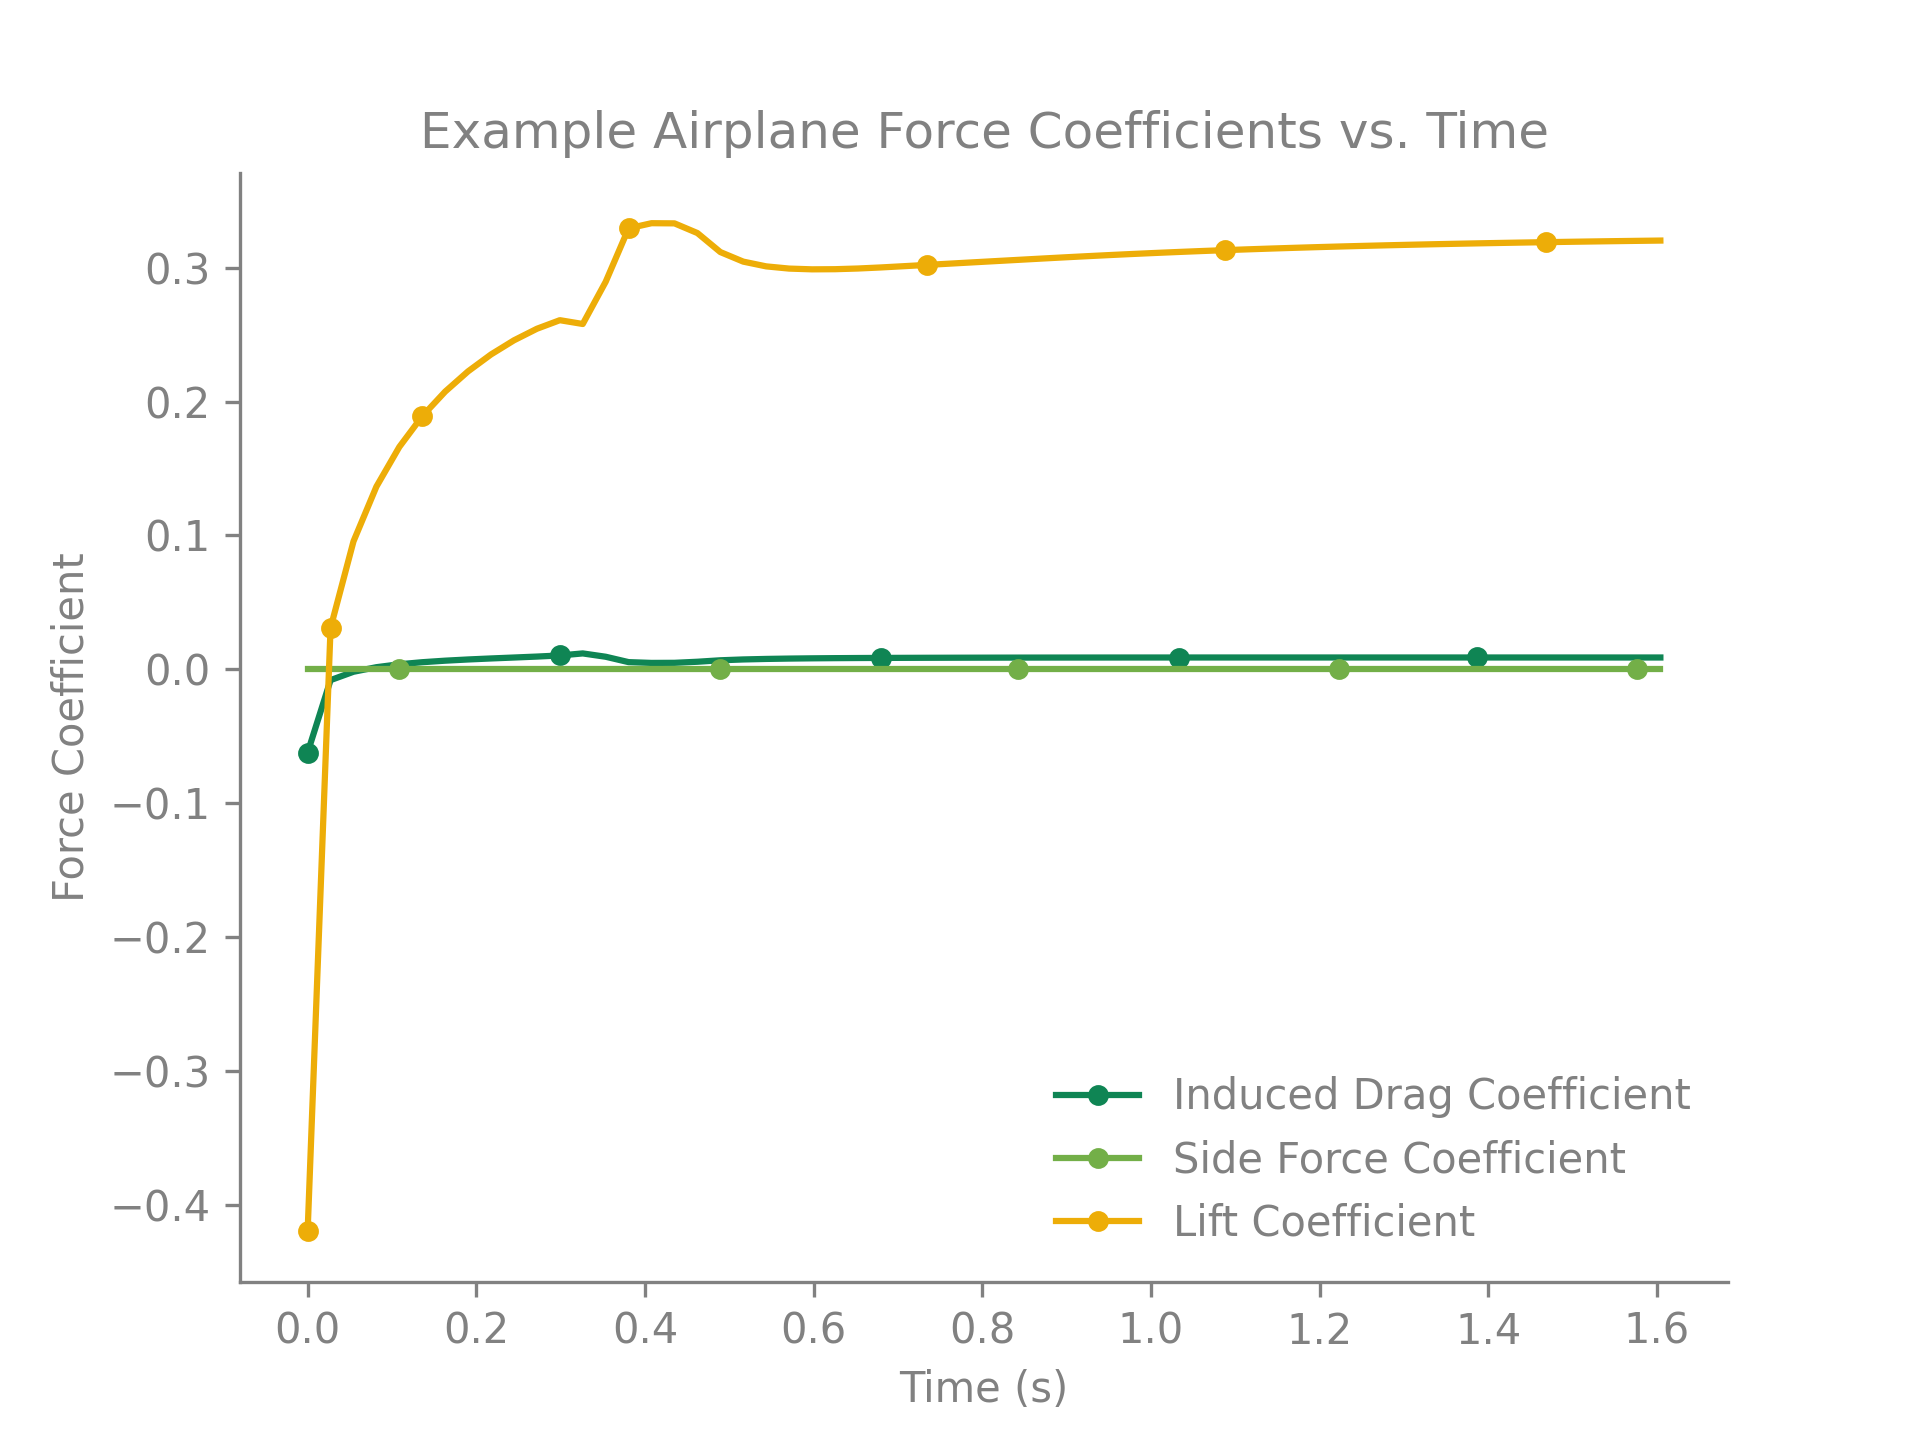
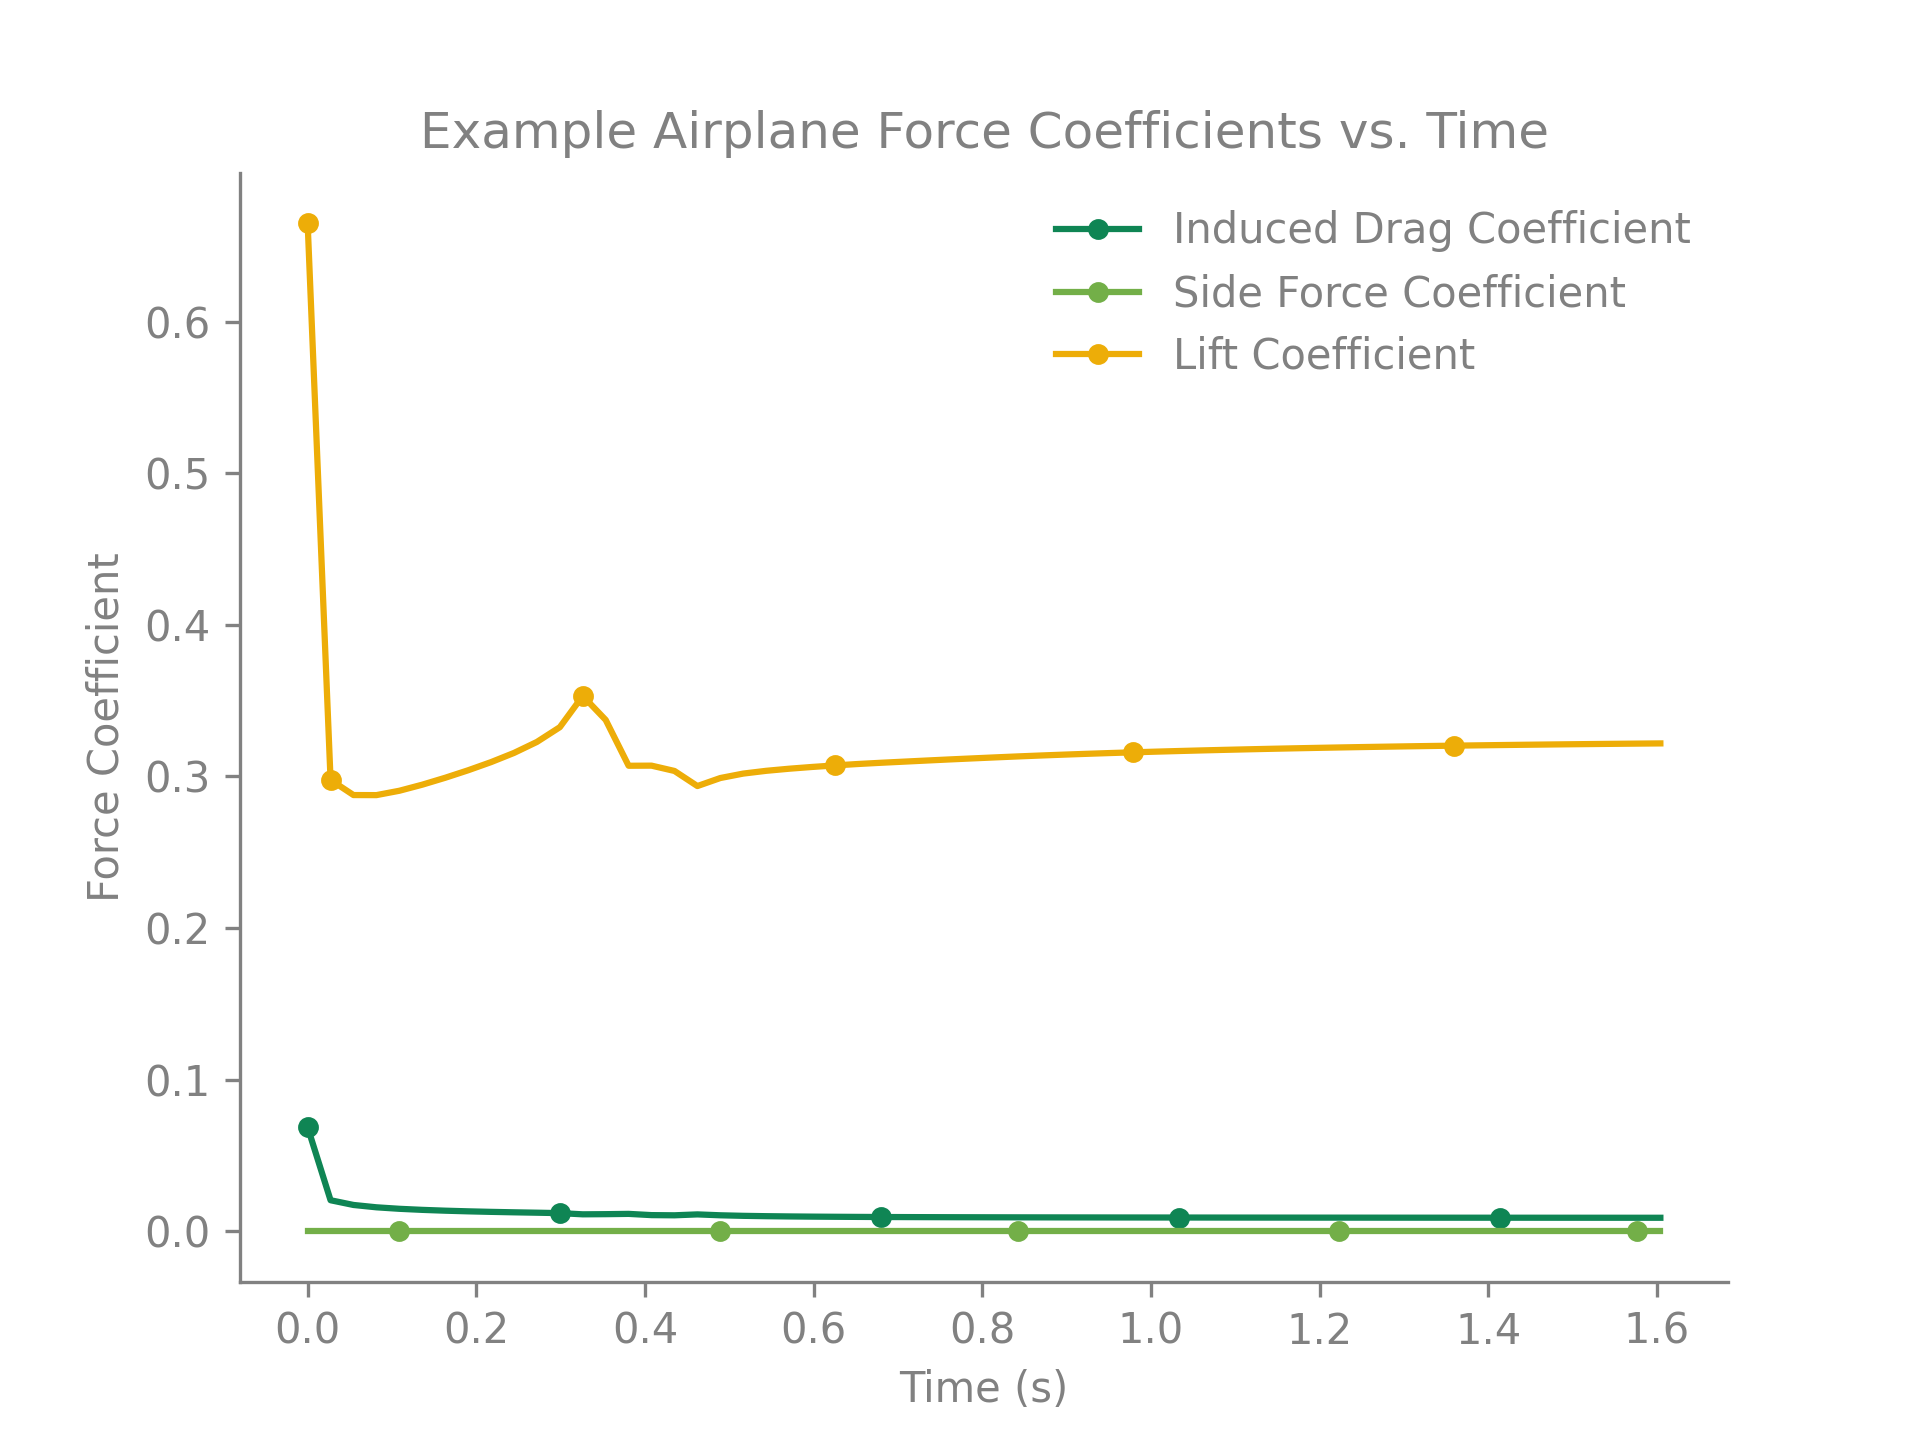
Fixed negative lift spike issue, removed different incorrect FIXME comment, updated example outputs.

diff --git a/pterasoftware/unsteady_ring_vortex_lattice_method.py b/pterasoftware/unsteady_ring_vortex_lattice_method.py
@@ -1058,16 +1058,21 @@ class UnsteadyRingVortexLatticeMethodSolver:
             )
         )
 
-        # FIXME: The unsteady force calculation may be wrong. In short, it looks like
-        #  we are getting a result that's -1 times what we expect. However, all the
-        #  reference equations support our implementation. More testing and
-        #  investigation is needed. See
-        #  https://github.com/camUrban/PteraSoftware/issues/27 for more details and
-        #  updates.
+        # The unsteady force calculation below includes a negative sign to account for a
+        # sign convention mismatch between Ptera Software and the reference literature.
+        # Ptera Software defines RingVortices with counter-clockwise (CCW) vertex
+        # ordering, while the references use clockwise (CW) ordering. Both define panel
+        # normals as pointing upward. This convention difference only affects the
+        # unsteady force term because it depends on both vortex strength and the normal
+        # vector. When converting from CCW to CW, the strength changes sign but the
+        # normal vector does not, requiring a sign  correction. In contrast, steady
+        # Kutta-Joukowski forces depend on the strength and the LineVortex vectors. Both
+        # have flipped signs, causing the negatives to cancel. See issue #27:
+        # https://github.com/camUrban/PteraSoftware/issues/27
 
         # Calculate the unsteady component of the force on each Panel (in geometry
         # axes), which is derived from the unsteady Bernoulli equation.
-        unsteady_forces_GP1 = (
+        unsteady_forces_GP1 = -(
             self.current_operating_point.rho
             * np.expand_dims(
                 (
@@ -1104,11 +1109,9 @@ class UnsteadyRingVortexLatticeMethodSolver:
             leftLegForces_GP1,
         )
 
-        # FIXME: The unsteady moment calculation may also be wrong. Right now,
-        #  we are using the position of the collocation points (in the first
-        #  Airplane's geometry axes, relative to the first Airplane's CG) to
-        #  calculate the moment, but shouldn't we instead use the  to the locations
-        #  of the Panels' centroids?
+        # The unsteady moment is calculated at the collocation point because the
+        # unsteady force acts on the bound RingVortex, whose center is at the
+        # collocation point, not at the Panel's centroid.
 
         # Find the moments (in the first Airplane's geometry axes, relative to the
         # first Airplane's CG) due to the unsteady component of the force on each Panel.

diff --git a/tests/integration/test_unsteady_convergence.py b/tests/integration/test_unsteady_convergence.py
@@ -29,9 +29,9 @@ class TestUnsteadyConvergence(unittest.TestCase):
             prescribed_wake=True,
             free_wake=True,
             num_chords_bounds=(2, 6),
-            panel_aspect_ratio_bounds=(4, 2),
-            num_chordwise_panels_bounds=(2, 4),
-            convergence_criteria=5.0,
+            panel_aspect_ratio_bounds=(4, 1),
+            num_chordwise_panels_bounds=(2, 6),
+            convergence_criteria=1.0,
         )
 
         converged_wake_state = converged_parameters[0]
@@ -41,8 +41,8 @@ class TestUnsteadyConvergence(unittest.TestCase):
 
         wake_state_ans = True
         num_chords_ans = 4
-        panel_ar_ans = 4
-        num_chordwise_ans = 2
+        panel_ar_ans = 1
+        num_chordwise_ans = 4
 
         self.assertTrue(converged_wake_state == wake_state_ans)
         self.assertTrue(abs(converged_num_chords - num_chords_ans) <= 1)
